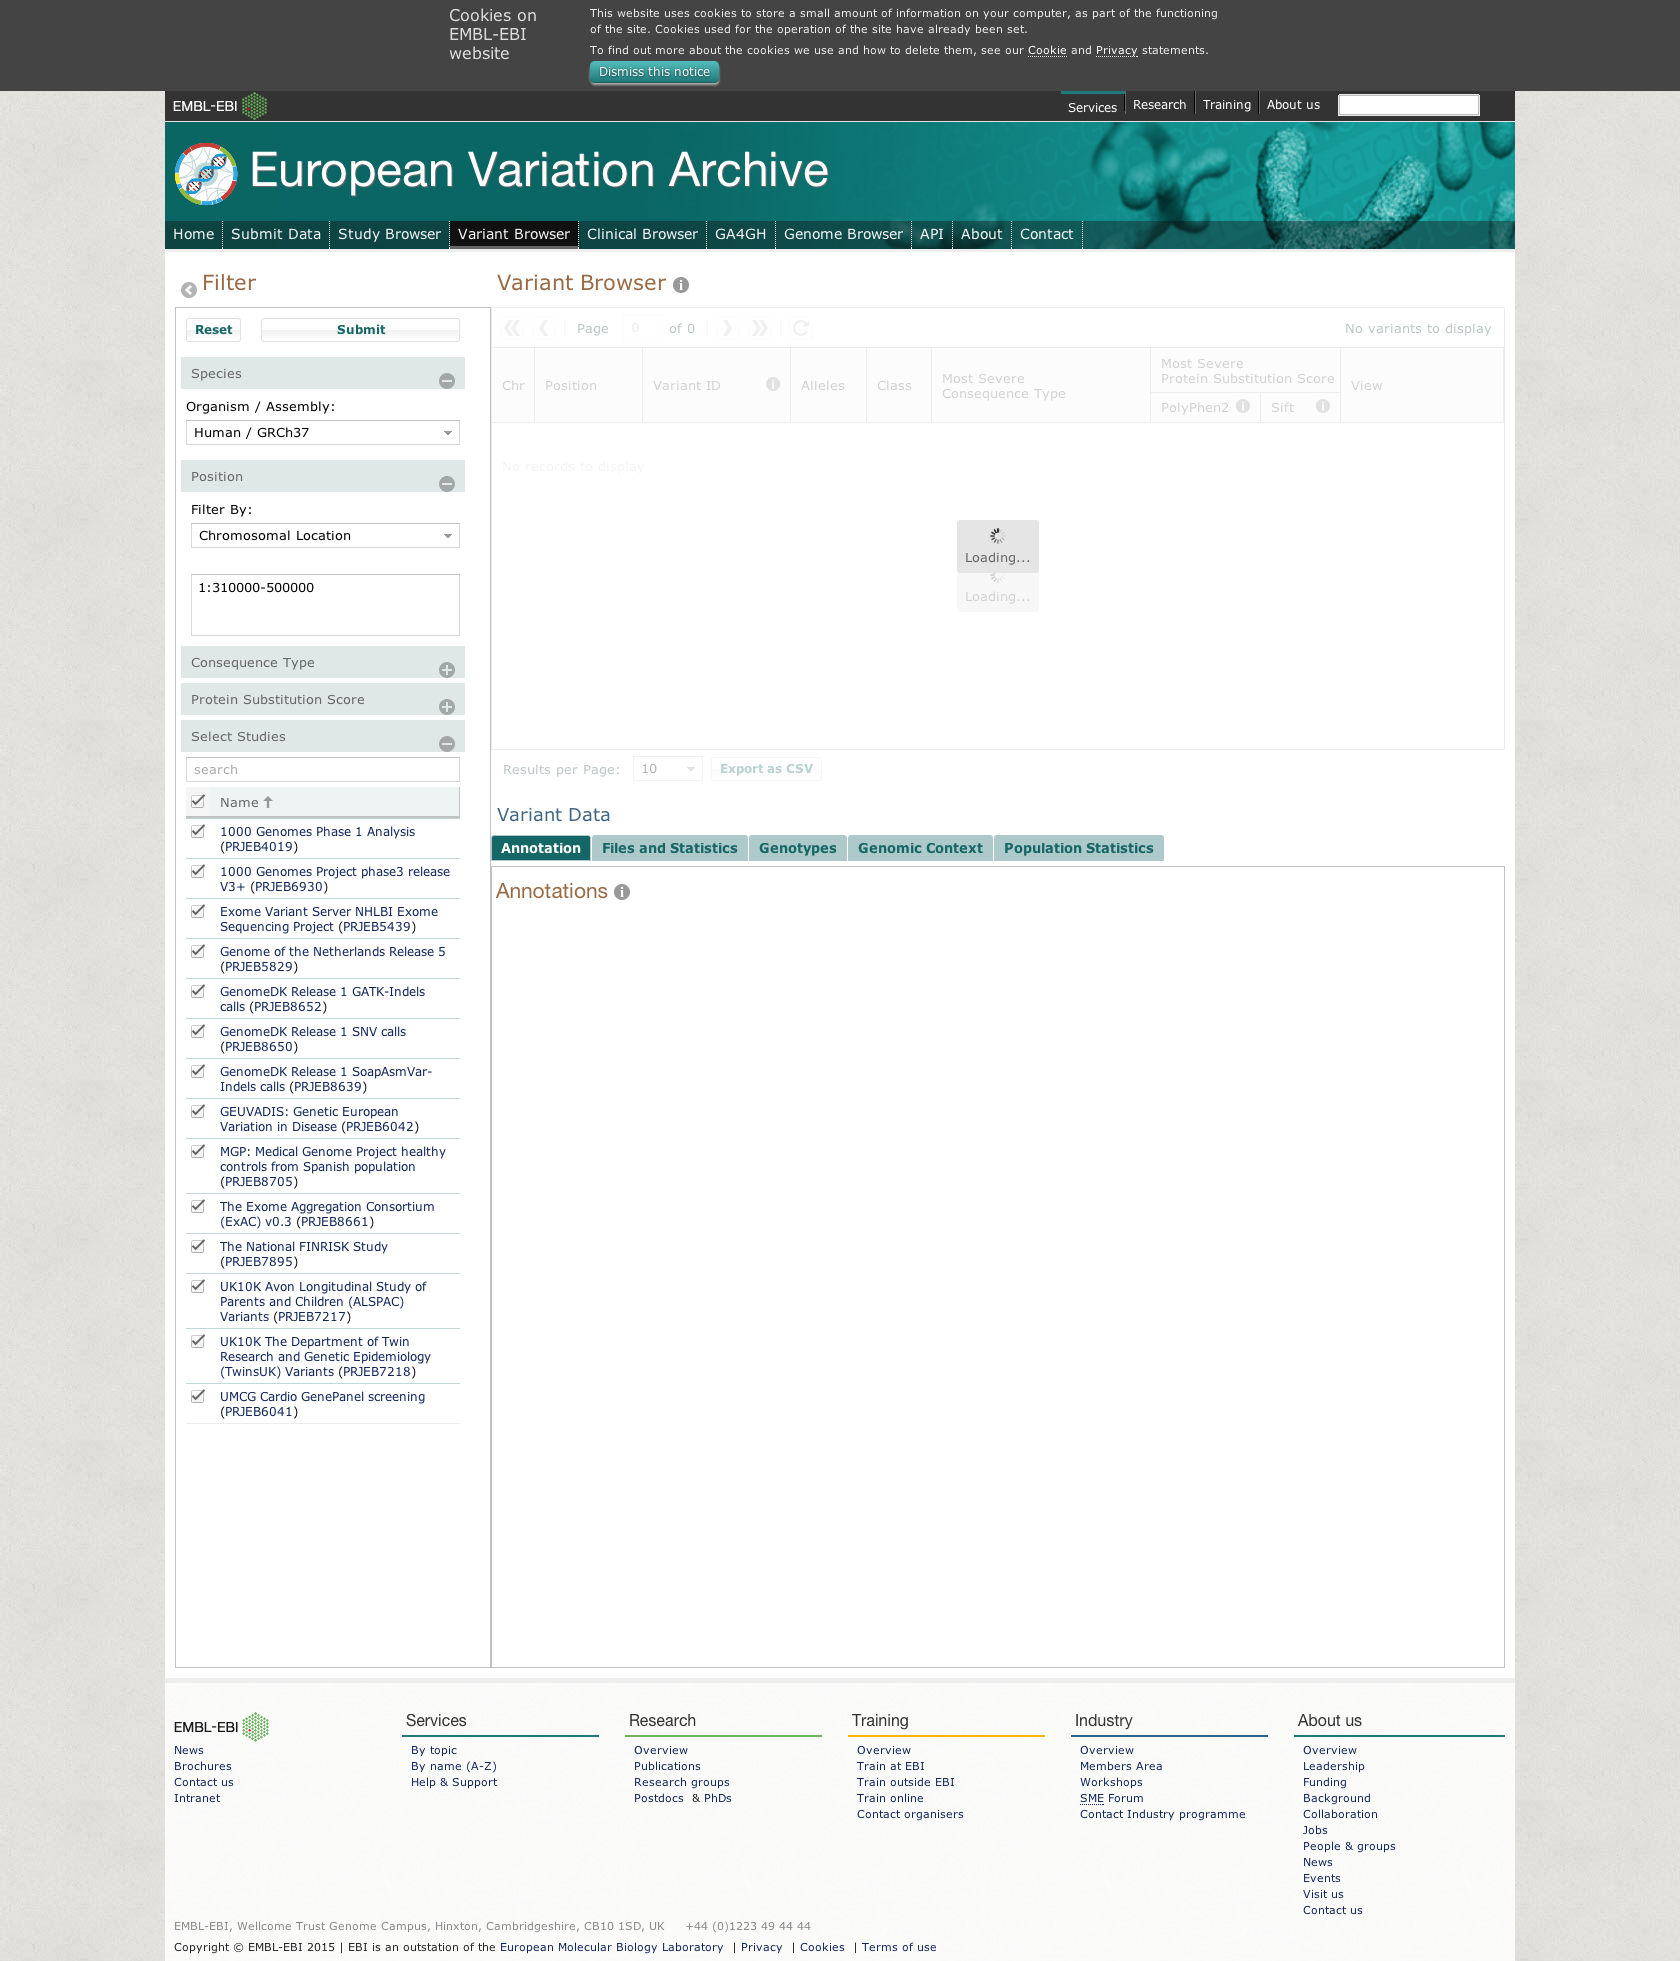
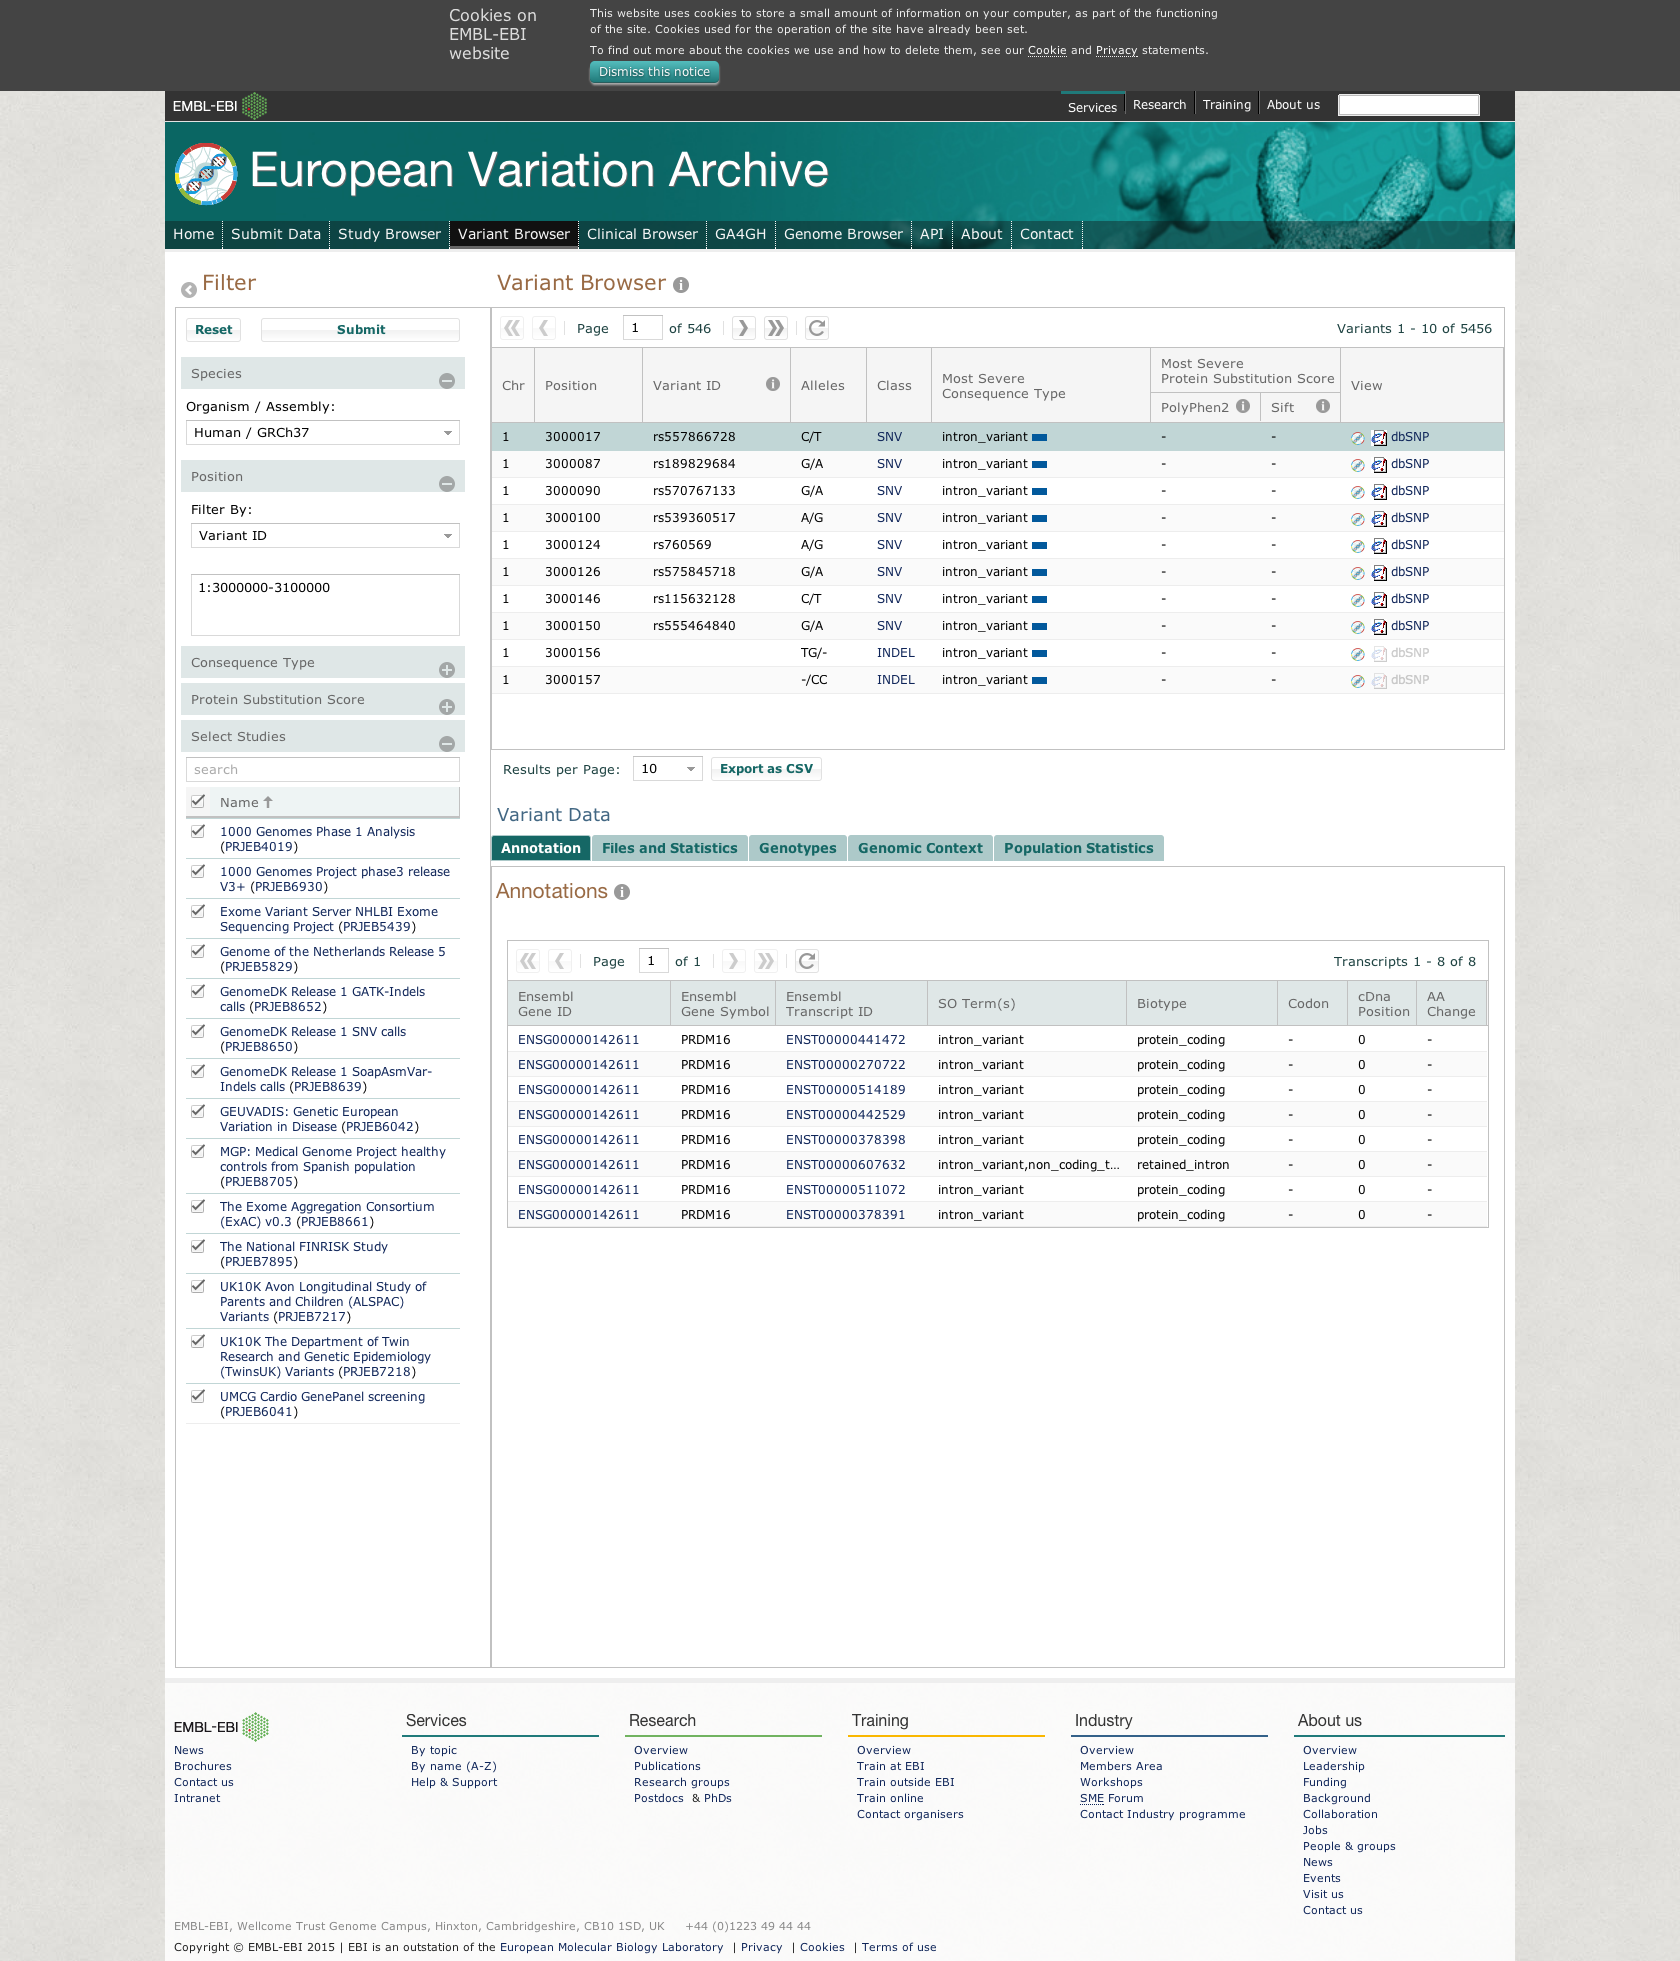
web test functionality cucumber added

Changed region(s): [[0.2786, 0.1555, 0.8976, 0.3422], [0.2786, 0.4977, 0.8976, 0.6221]]

diff --git a/Gruntfile.js b/Gruntfile.js
@@ -249,9 +249,9 @@ module.exports = function (grunt) {
         },
         dalek: {
             options: {
-                browser: ['phantomjs', 'chrome'],
+                browser: ['chrome'],
                 reporter: ['console','html', 'junit'],
-                dalekfile: false,
+                dalekfile: true,
                 advanced: {
                     browsers: [{
                         chrome: {
@@ -261,7 +261,13 @@ module.exports = function (grunt) {
                 }
             },
             dist: {
-                src: ['dalek-test/eva.js']
+                src: ['dalek-test/dalek-eva-test.js']
+            }
+        },
+        cucumberjs: {
+            src: 'features',
+            options: {
+                steps: "features/step_definitions"
             }
         }
     });
@@ -280,6 +286,8 @@ module.exports = function (grunt) {
     grunt.loadNpmTasks('grunt-curl');
     grunt.loadNpmTasks('grunt-hub');
     grunt.loadNpmTasks('grunt-dalek');
+    grunt.loadNpmTasks('grunt-cucumber');
+    grunt.loadNpmTasks('grunt-zombie');
 //    grunt.loadTasks('tasks');
 
     grunt.registerTask('vendor', ['curl-dir']);

diff --git a/dalek-test/dalek-eva-test.js b/dalek-test/dalek-eva-test.js
@@ -1,7 +1,8 @@
 URL = 'http://mysite.com/apps/eva-web/src/index.html';
 
+
 module.exports = {
-    'Page title is correct': function (test) {
+    'Home Page': function (test) {
         test
             .open(URL)
             .resize({width: 1680, height: 1050})
@@ -10,15 +11,23 @@ module.exports = {
             .wait(5000)
             .screenshot('dalek-test/:browser/my_file.png')
             .end()
-
+            .done();
+    },
+    'Variant Browser Page': function (test) {
+        test
+            .open(URL)
+            .resize({width: 1680, height: 1050})
+            .click('#cookie-dismiss')
             .click('#variant-browser-link')
             .wait(5000)
             .execute(function () {
                 $("[name='region']").val('1:310000-500000')
+
             })
             .click('#vb-submit-button-btnEl')
-            .screenshot('dalek-test/:browser/study_page.png')
+//            .screenshot('dalek-test/:browser/study_page.png')
             .wait(5000)
+            .log.dom('.variant-browser-option-div')
             .done();
     }
 };
